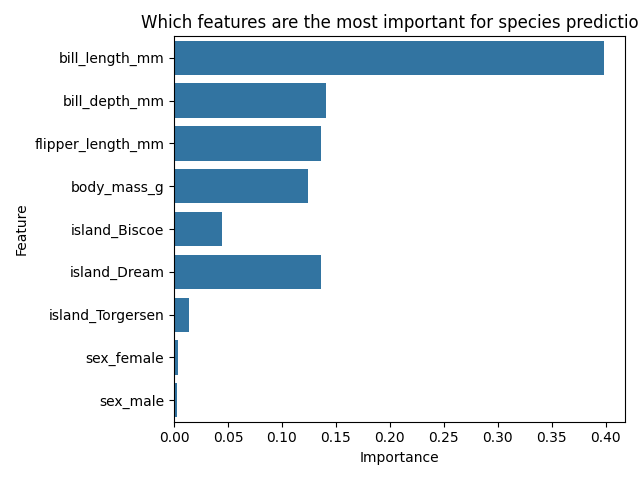
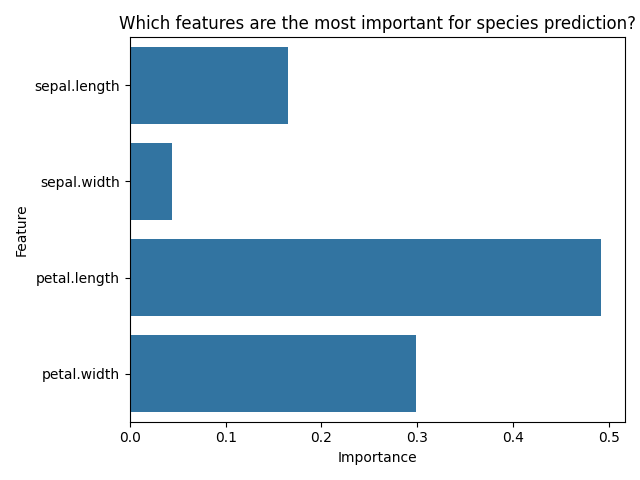
Run and add feature importance

diff --git a/02_iris_ml/app_ml.py b/02_iris_ml/app_ml.py
@@ -1,47 +1,43 @@
-import pandas as pd 
+import pandas as pd
 import matplotlib.pyplot as plt
 import seaborn as sns
-from sklearn.metrics import accuracy_score 
+from sklearn.metrics import accuracy_score
 
-from sklearn.ensemble import RandomForestClassifier 
+from sklearn.ensemble import RandomForestClassifier
 
-from sklearn.model_selection import train_test_split 
+from sklearn.model_selection import train_test_split
 
-import pickle 
-
- 
+import pickle
 
 iris_df = pd.read_csv('iris.csv')
 iris_df.dropna(inplace=True)
 output = iris_df['variety']
 features = iris_df[['sepal.length', 'sepal.width', 'petal.length', 'petal.width']]
-features = pd.get_dummies(features) 
-output, uniques = pd.factorize(output) 
+features = pd.get_dummies(features)
+output, uniques = pd.factorize(output)
 
 x_train, x_test, y_train, y_test = train_test_split(
-	features, output, test_size=.8) 
-rfc = RandomForestClassifier(random_state=15) 
-rfc.fit(x_train, y_train) 
-y_pred = rfc.predict(x_test) 
-score = accuracy_score(y_pred, y_test) 
-print('Our accuracy score for this model is {}'.format(score)) 
+    features, output, test_size=.8)
+rfc = RandomForestClassifier(random_state=15)
+rfc.fit(x_train, y_train)
+y_pred = rfc.predict(x_test)
+score = accuracy_score(y_pred, y_test)
+print('Our accuracy score for this model is {}'.format(score))
 
- 
+rf_pickle = open('random_forest_penguin.pickle', 'wb')
+pickle.dump(rfc, rf_pickle)
+rf_pickle.close()
+output_pickle = open('output_penguin.pickle', 'wb')
+pickle.dump(uniques, output_pickle)
+output_pickle.close()
 
-rf_pickle = open('random_forest_penguin.pickle', 'wb') 
-pickle.dump(rfc, rf_pickle) 
-rf_pickle.close() 
-output_pickle = open('output_penguin.pickle', 'wb') 
-pickle.dump(uniques, output_pickle) 
-output_pickle.close() 
+fig, ax = plt.subplots()
 
- 
+ax = sns.barplot(x=rfc.feature_importances_, y=features.columns)
+plt.title('Which features are the most important for species prediction?')
+plt.xlabel('Importance')
+plt.ylabel('Feature')
+plt.tight_layout()
+fig.savefig('feature_importance.png')
 
-fig, ax = plt.subplots() 
-
-ax = sns.barplot(x=rfc.feature_importances_, y=features.columns) 
-plt.title('Which features are the most important for species prediction?') 
-plt.xlabel('Importance') 
-plt.ylabel('Feature') 
-plt.tight_layout() 
-fig.savefig('feature_importance.png') 
+#%%
